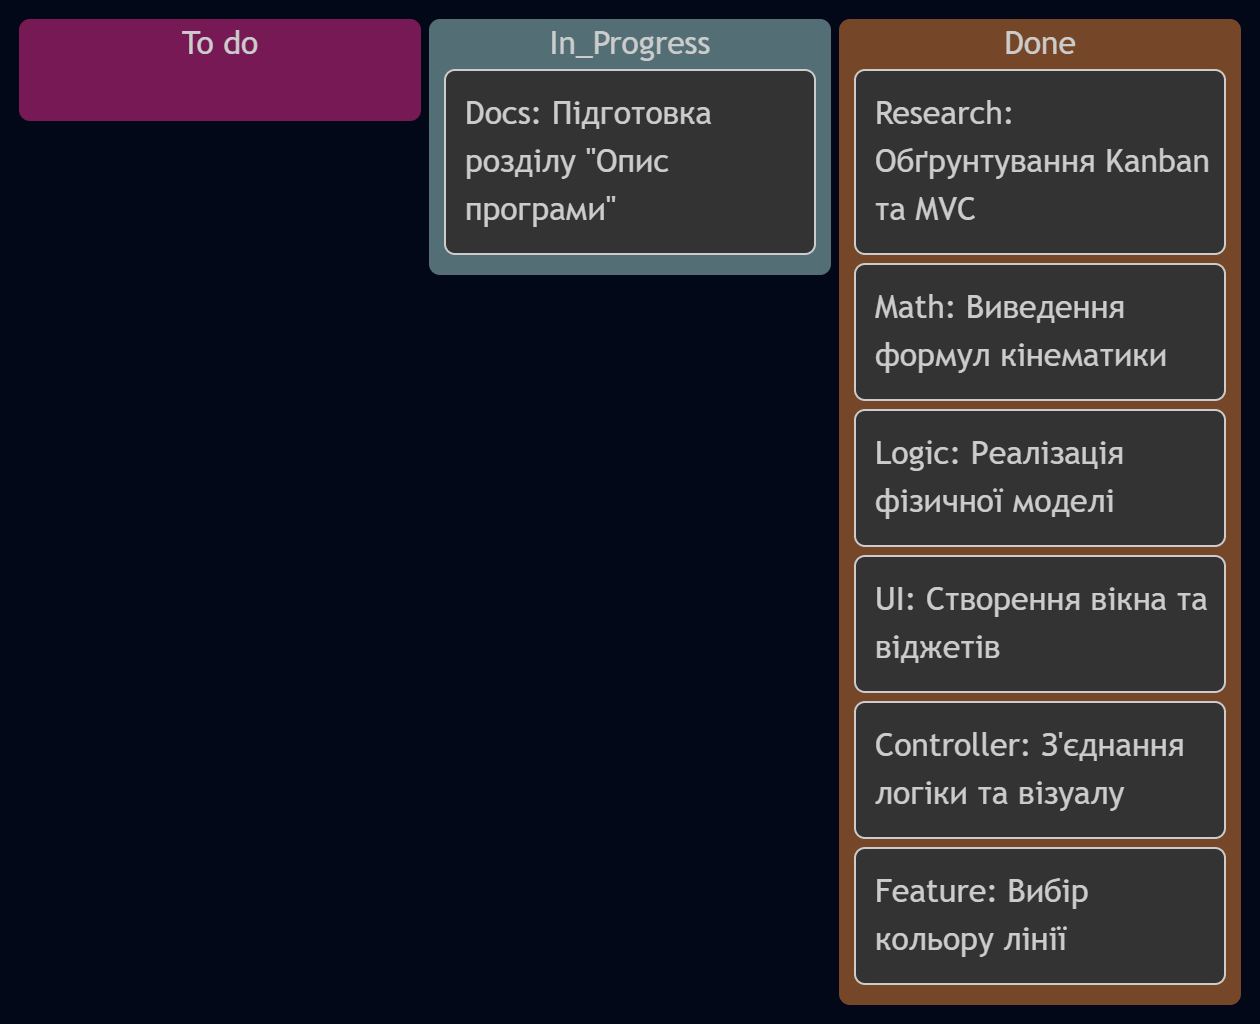
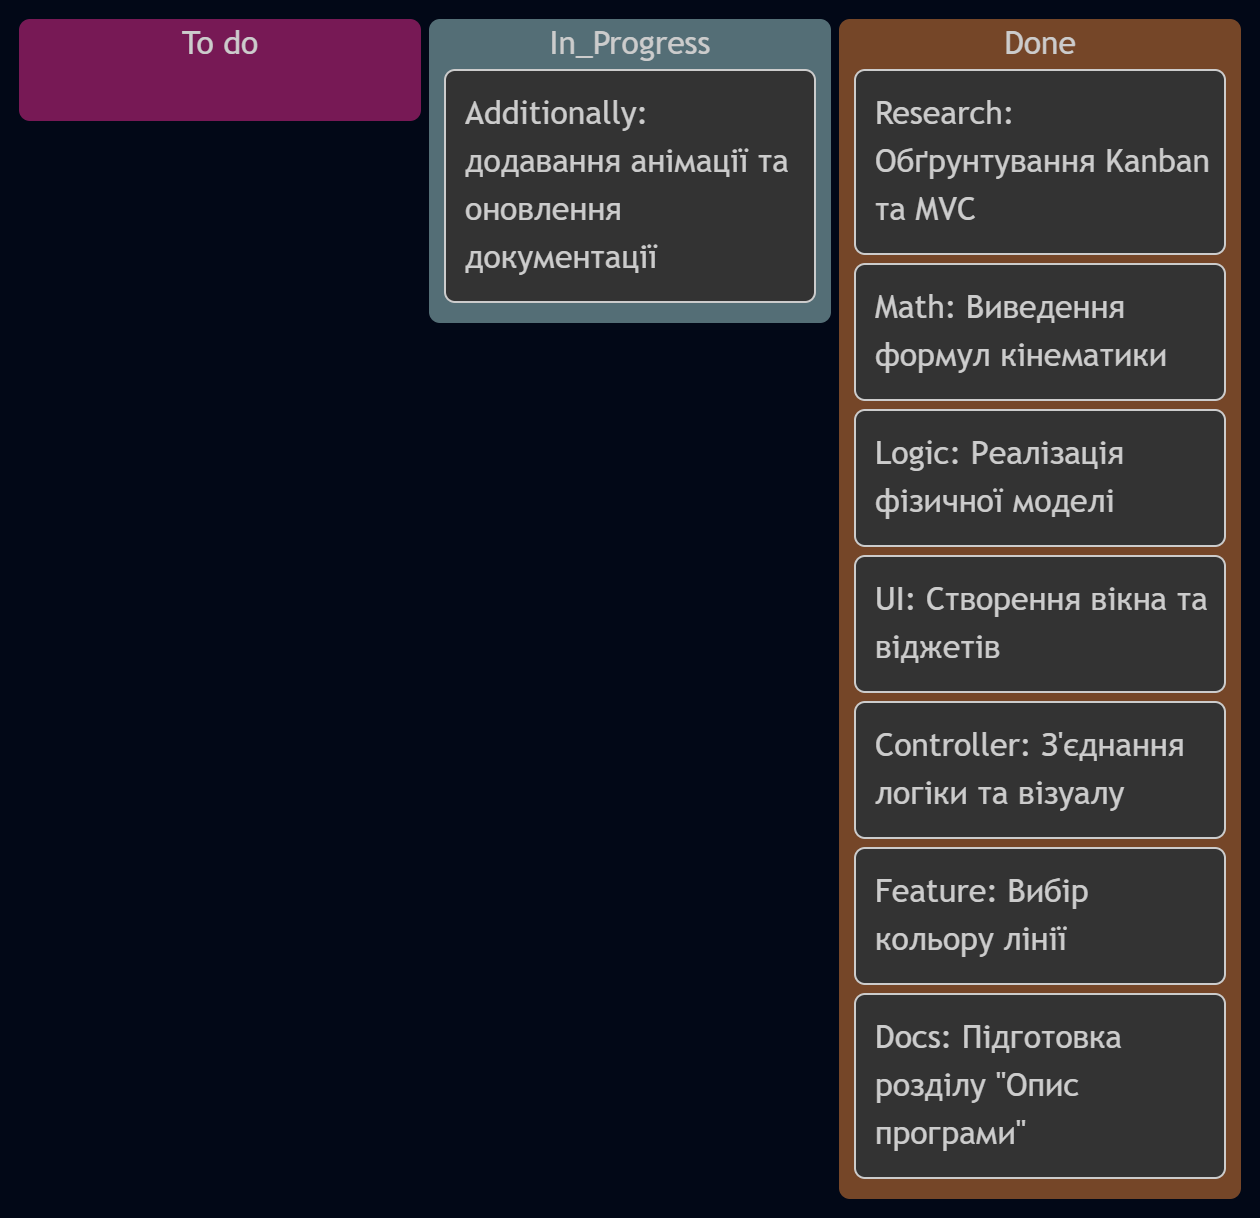
Additionally: додавання анімації та оновлення документації

diff --git a/project/main.py b/project/main.py
@@ -1,4 +1,6 @@
 import matplotlib.pyplot as plt
+import numpy as np
+from matplotlib.animation import FuncAnimation
 from tkinter import colorchooser, Tk
 from physics import PhysicalBody
 from ui_view import SimulationUI
@@ -8,54 +10,62 @@ class SimulationController:
     def __init__(self):
         self.root = Tk()
         self.root.withdraw()
-
         self.ui = SimulationUI()
 
-        self.ui.btn_draw.on_clicked(self.draw)
+        self.ui.btn_draw.on_clicked(self.start_animation)
         self.ui.btn_clear.on_clicked(self.clear)
         self.ui.btn_color.on_clicked(self.choose_color)
 
         self.lines = []
+        self.ani = None
 
     def choose_color(self, _):
-        """Викликає системне вікно вибору кольору"""
-        color = colorchooser.askcolor(title="Оберіть колір для наступної лінії")[1]
+        color = colorchooser.askcolor(title="Вибери колір")[1]
         if color:
             self.ui.current_color = color
             self.ui.btn_color.color = color
             plt.draw()
 
-    def draw(self, _):
-        """Зчитування даних та побудова графіка"""
+    def start_animation(self, _):
         try:
             d = {k: v.text for k, v in self.ui.inputs.items()}
+            body = PhysicalBody(float(d['x0']), float(d['y0']), float(d['v0']), float(d['a']), float(d['Кут']))
 
-            body = PhysicalBody(
-                float(d['x0']),
-                float(d['y0']),
-                float(d['v0']),
-                float(d['a']),
-                float(d['Кут'])
+            line, = self.ui.ax.plot([], [], color=self.ui.current_color, lw=2, label=f"v={d['v0']}, a={d['a']}")
+
+            point, = self.ui.ax.plot([], [], marker='o', ms=10, color=self.ui.current_color)
+
+            self.lines.extend([line, point])
+            self.ui.ax.legend(loc='upper left')
+
+            def update(frame):
+                # frame від 0 до 20
+                t = np.linspace(0, frame / 4, frame + 1)
+                x, y = body.calculate(t)
+
+                line.set_data(x, y)
+                if len(x) > 0:
+                    point.set_data([x[-1]], [y[-1]])  # малює тільки одну точку в кінці
+
+                self.ui.ax.relim()
+                self.ui.ax.autoscale_view()
+                return line, point
+
+            # невелика пауза перед стартом
+            plt.pause(0.1)
+
+            self.ani = FuncAnimation(
+                self.ui.fig, update, frames=20, interval=40,
+                blit=True, repeat=False, cache_frame_data=False
             )
-
-            x, y = body.calculate()
-
-            line, = self.ui.ax.plot(x, y, color=self.ui.current_color, lw=2, label=f"v={d['v0']}, a={d['a']}")
-            self.lines.append(line)
-
-            # оновлює межі графіка, щоб він підлаштовувався під нові точки
-            self.ui.ax.legend()
-            self.ui.ax.relim()
-            self.ui.ax.autoscale_view()
             plt.draw()
 
         except ValueError:
-            print("Помилка: введіть коректні числа в усі поля")
+            print("Помилка даних")
 
     def clear(self, _):
-        """Видалення всіх намальованих ліній"""
-        for line in self.lines:
-            line.remove()
+        for obj in self.lines:
+            obj.remove()
         self.lines.clear()
         if self.ui.ax.get_legend():
             self.ui.ax.get_legend().remove()
